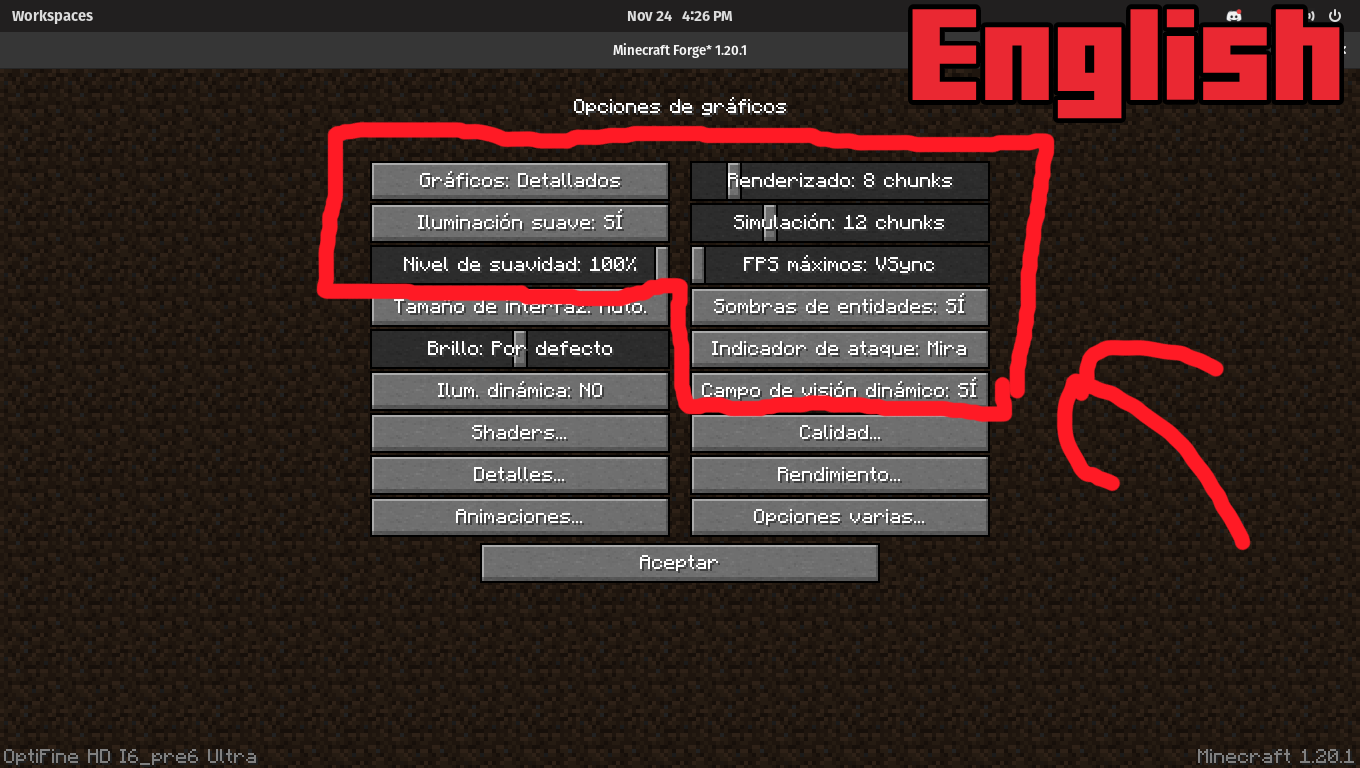
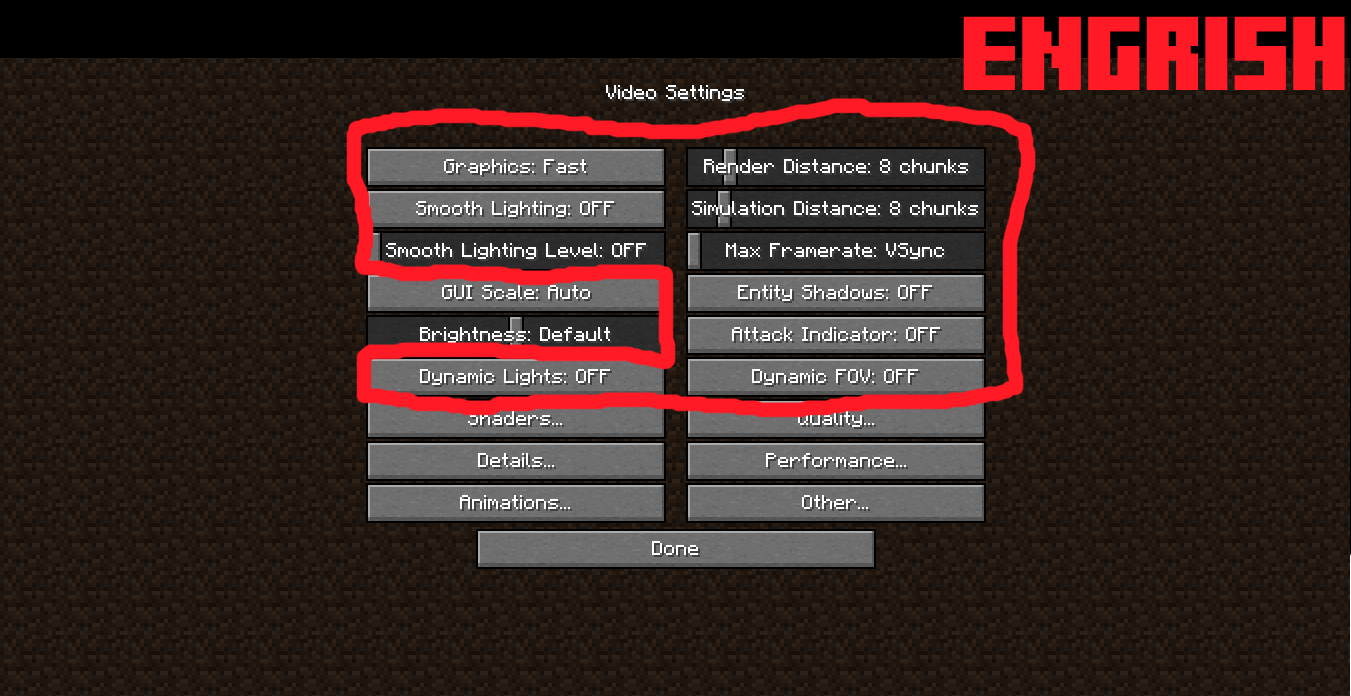
add more images and a pop op to show them

Changed region(s): [[0.0, 0.0, 1.0, 1.0], [0.0, 0.9655, 0.1865, 0.9957], [0.9016, 0.6638, 0.9326, 0.7241]]

diff --git a/popup.js b/popup.js
@@ -47,6 +47,7 @@ function openDialog() {
   console.log(this)
   let src = `./images/basicInstalation`;
   let src2 = `./images/basicGraphicDowngrader`
+  let src3 = `./images/downgradeGraphicManually`
 
   switch (this.dataset.id) {
     case "0":
@@ -569,10 +570,50 @@ function openDialog() {
 </div>
 `
     case '4':
+
     dialog.innerHTML = `
 <div>
       <button id="quit">salir</button>
   <h2>esto es para personas que no les funciona el bajador de graficos o que simplemente quieren hacer lo mismo que hace el bajador de graficos sin tener que usar el bajador de graficos</h2>
+        <p>Lo primero que tienen que hacer es ir a "options" u "opciones"</p>
+      ${anchorAndImgTag(src2, 'e1', 'ir a options')}
+      ${anchorAndImgTag(src2, 's1', 'ir a opciones')}
+        <p>despues tienen que ir a "videos settings" o "graficos"</p>
+      ${anchorAndImgTag(src3, 'e02', 'ir a video settings')}
+      ${anchorAndImgTag(src3, 's02', 'ir a graficos')}
+        <p>cambia estos valores y dejalos como los deje yo</p>
+      ${anchorAndImgTag(src3, 'e03', 'cambiar valores en video settings')}
+      ${anchorAndImgTag(src3, 's03', 'cambiar valores en graficos')}
+        <p>luego ve a "detalles" o "details"</p>
+      ${anchorAndImgTag(src3, 'eDetail', 'ir a Detail')}
+      ${anchorAndImgTag(src3, 'sDetail', 'ir a Detalles')}
+        <p>luego deja las siguientes configuraciones como yo las deje</p>
+      ${anchorAndImgTag(src3, 'e04', 'cambiar valores en Details')}
+      ${anchorAndImgTag(src3, 's04', 'cambiar valores en Detalles')}
+        <p>despues vuelve atras y luego ve a "animations" o "animaciones"</p>
+      ${anchorAndImgTag(src3, 'eAnimations', 'ir a Animations')}
+      ${anchorAndImgTag(src3, 'sAnimations', 'ir a Animaciones')}
+        <p>y luego cambia esas configuraciones y dejalas como yo las deje</p>
+      ${anchorAndImgTag(src3, 'e05', 'cambiar valores en Animations')}
+      ${anchorAndImgTag(src3, 's05', 'cambiar valores en Animaciones')}
+        <p>y luego vuelve atras y ve a "calidad" o "Quality"</p>
+      ${anchorAndImgTag(src3, 'eQuality', 'ir a Quality..')}
+      ${anchorAndImgTag(src3, 'sQuality', 'ir a Calidad..')}
+        <p>y luego cambia esas configuraciones y dejalas como yo las deje</p>
+      ${anchorAndImgTag(src3, 'e06', 'cambiar valores en Animations')}
+      ${anchorAndImgTag(src3, 's06', 'cambiar valores en Animaciones')}
+        <p>y luego vuelve atras y ve a "Performance" o "Rendimiento"</p>
+      ${anchorAndImgTag(src3, 'ePerformance', 'ir a Performance..')}
+      ${anchorAndImgTag(src3, 'sPerformance', 'ir a Rendimiento..')}
+        <p>y luego cambia esas configuraciones y dejalas como yo las deje</p>
+      ${anchorAndImgTag(src3, 'e07', 'cambiar valores en Performance')}
+      ${anchorAndImgTag(src3, 's07', 'cambiar valores en Rendimiento')}
+        <p>y luego vuelve atras y ve a "Others" o "Opciones varias"</p>
+      ${anchorAndImgTag(src3, 'eOthers', 'ir a Others..')}
+      ${anchorAndImgTag(src3, 'sOthers', 'ir a Opciones varias..')}
+        <p>y luego cambia esas configuraciones y dejalas como yo las deje</p>
+      ${anchorAndImgTag(src3, 'e08', 'cambiar valores en Performance')}
+      ${anchorAndImgTag(src3, 's08', 'cambiar valores en Rendimiento')}
 </div>`
   }
   if (this.dataset.id) {
